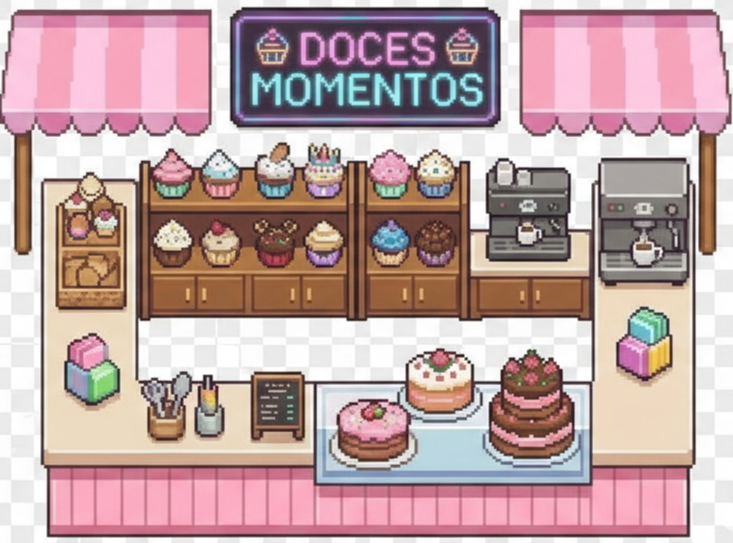
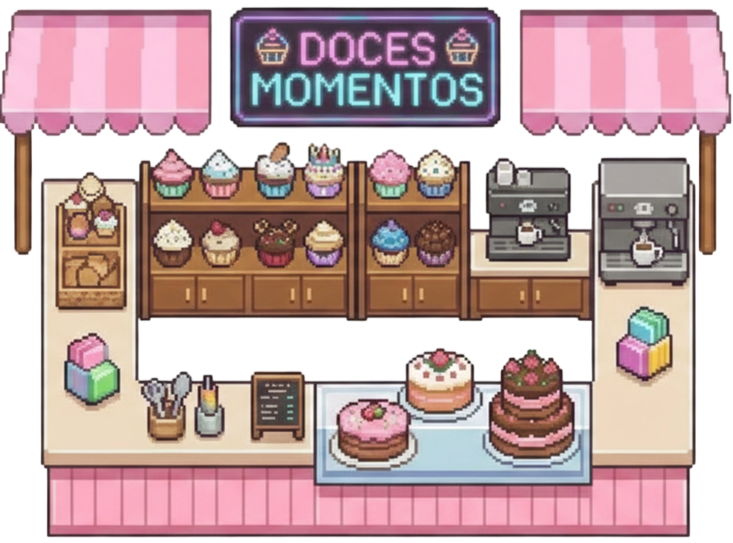
feat(loja): adiciona objetos e colisões na loja de doces (#133)

diff --git a/public/src/utilitarios/configuracao-interior.js b/public/src/utilitarios/configuracao-interior.js
@@ -7,6 +7,22 @@ export const ObjetosInterior = {
         { imagem: 'lanchonetePrateleiras', x: 1380, y: 600, escala: 0.55 }
     ],
 
+    'Cafe': [
+        { imagem: 'docesMomentosBancada', x: 850, y: 320, escala: 0.9 },
+        { imagem: 'docesMomentosMesa1', x: 400, y: 800, escala: 0.42 },
+        { imagem: 'docesMomentosMesa2', x: 1250, y: 800, escala: 0.42 },
+    ],
+
+    'Games': [
+        { imagem: 'videogameBancada', x: 200, y: 150, escala: 1.2 },
+        { imagem: 'videogameEstante', x: 280, y: 150, escala: 1.2 },
+        { imagem: 'videogameFliperama1', x: 1200, y: 200, escala: 0.3 },
+        { imagem: 'videogameFliperama2', x: 1420, y: 750, escala: 0.55 },
+        { imagem: 'videogameFliperama3', x: 800, y: 100, escala: 0.45 },
+        { imagem: 'videogameFliperamaDeLado', x: 350, y: 750, escala: 0.35 },
+        { imagem: 'videogameMesa', x: 1300, y: 100, escala: 0.25 }
+    ],
+
     'Beleza': [
         { imagem: 'salaodebelezaBancada', x: 800, y: 400, escala: 0.4 },
         { imagem: 'salaodebelezaMesa', x: 350, y: 780, escala: 0.7 },

diff --git a/public/src/cenas/cena-cidade.js b/public/src/cenas/cena-cidade.js
@@ -34,8 +34,8 @@ export class GameScene extends Phaser.Scene {
                 lojaFisicaOriginX: 0.7,
                 lojaFisicaOriginY: 0.62,
 
-                npcX: 770,
-                npcY: 350,
+                npcX: 840,
+                npcY: 342,
 
                 portaX: 240,
                 portaY: 325,
@@ -304,7 +304,7 @@ export class GameScene extends Phaser.Scene {
         });
 
     console.log('Lembrar de retirar');
-        this.scene.start('belezaScene');
+        this.scene.start('cafeScene');
 
     }
 

diff --git a/public/src/cenas/cena-loja.js b/public/src/cenas/cena-loja.js
@@ -306,6 +306,9 @@ export default class LojaScene extends Phaser.Scene {
         else if (this.nomeLoja === 'Joalheria') {
             this.npc.setDepth(101); 
         }
+        else if (this.nomeLoja === 'Cafe') {
+            this.npc.setDepth(101); 
+        }
         
     
 
